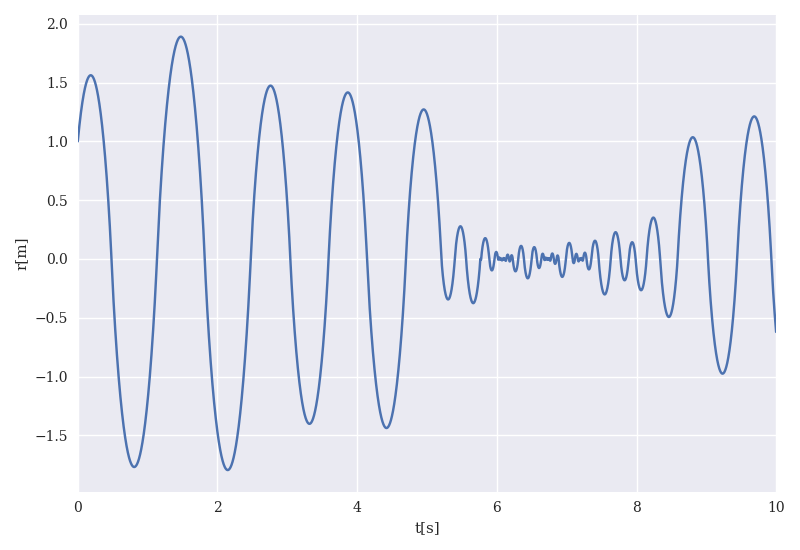
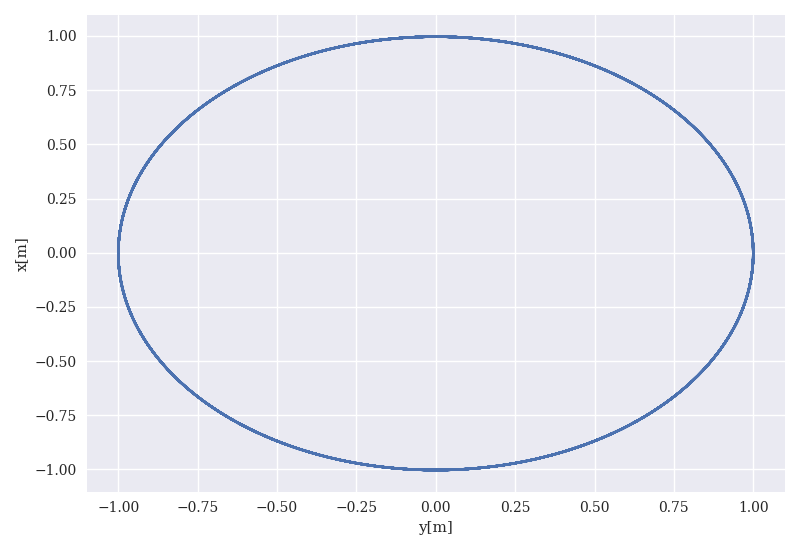
hw4 almost done

diff --git a/doc/src/energyconserv/Programs/EarthSun.py b/doc/src/energyconserv/Programs/EarthSun.py
@@ -41,32 +41,33 @@ tfinal = 10
 n = ceil(tfinal/DeltaT)
 # set up arrays for t, a, v, and x
 t = np.zeros(n)
-rt = np.zeros(n)
-vt = np.zeros(n)
 v = np.zeros((n,2))
 r = np.zeros((n,2))
 # Initial conditions as compact 2-dimensional arrays
 r0 = np.array([1.0,0.0])
-v0 = np.array([2*pi,0.0])
+v0 = np.array([0.0,2*pi])
 r[0] = r0
 v[0] = v0
+Fourpi2 = 4*pi*pi
 # Start integrating using Euler's method
 for i in range(n-1):
-    # Set up forces, air resistance FD, not now that we need the norm of the vector
+    # Set up forces, air resistance FD, note now that we need the norm of the vector
     # Here you could have defined your own function for this
     rabs = sqrt(sum(r[i]*r[i]))
-    a =  -4*(pi**2)*r[i]/(rabs**(3.0/2.0))
-    # update velocity, time and position using Euler's method
-    r[i+1] = r[i] + DeltaT*v[i]+0.5*(DeltaT**2)*a
-    rabs = sqrt(sum(r[i+1]*r[i+1]))
-    anew = -4*(pi**2)*r[i+1]/(rabs**(3.0/2.0))
-    v[i+1] = v[i] + 0.5*DeltaT*(a+anew)
+    a =  -Fourpi2*r[i]/(rabs**3)
+    # update velocity, time and position using the Velocity-Verlet method
+    v[i+1] = v[i] + DeltaT*a#0.5*DeltaT*(a+anew)
+    r[i+1] = r[i] + DeltaT*v[i+1]#+0.5*(DeltaT**2)*a
+#    rabs = sqrt(sum(r[i+1]*r[i+1]))
+#    anew = -4*(pi**2)*r[i+1]/(rabs**3)
+
     t[i+1] = t[i] + DeltaT
+# Plot position as function of time    
 fig, ax = plt.subplots()
-ax.set_xlim(0, tfinal)
-ax.set_ylabel('r[m]')
-ax.set_xlabel('t[s]')
-ax.plot(t,r[:,0])
+#ax.set_xlim(0, tfinal)
+ax.set_ylabel('x[m]')
+ax.set_xlabel('y[m]')
+ax.plot(r[:,0], r[:,1])
 fig.tight_layout()
 save_fig("EarthSunEuler")
 plt.show()
